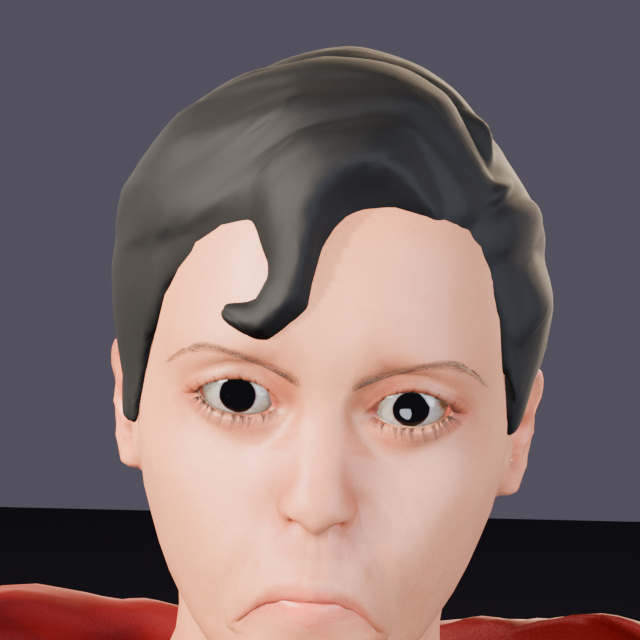
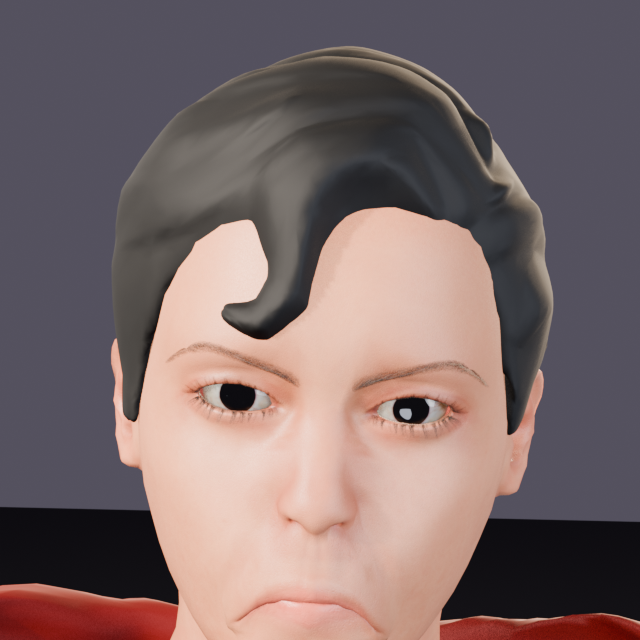
style_lab: Arian face iterations
Claude-Session: https://claude.ai/code/session_0195jcA68rZXhAyskUgtU8Q6

Changed region(s): [[0.3125, 0.5625, 0.4375, 0.6562], [0.5625, 0.5625, 0.6875, 0.7188]]

diff --git a/blender/style_lab/arian_board.py b/blender/style_lab/arian_board.py
@@ -29,6 +29,9 @@ sit = MC.load(os.path.join(HERE, "..", "mocap", "sitting_idle.fbx")) if PART == 
 
 # ------------------------------------------------------------------ the new Arian
 STYLE = dict(LK.STYLE)
+for k_ in list(STYLE):
+    if "eye-height" in k_:
+        STYLE.pop(k_)          # lids not pulled wide open: less "staring"
 STYLE.update({"l-eye-scale-incr": 1.0, "r-eye-scale-incr": 1.0, "head-scale-vert-incr": 0.2,
               "nose-scale-horiz-decr": 0.7, "mouth-scale-horiz-decr": 0.2})
 cast.STYLE = STYLE
@@ -91,6 +94,54 @@ for o in ar.parts.get("Eyes", []):
 for kb in ar.keys.values():
     kb.slider_max = 2.0
 
+
+def big_iris(m, k=1.45):
+    """Scale the eye texture around each iris centre (the texture holds two eyes) so the iris looks bigger."""
+    nt = m.node_tree
+    tex = next((n for n in nt.nodes if n.type == "TEX_IMAGE"), None)
+    if not tex or m.get("big_iris"):
+        return
+    m["big_iris"] = 1
+    uv = nt.nodes.new("ShaderNodeTexCoord")
+    sep = nt.nodes.new("ShaderNodeSeparateXYZ")
+    nt.links.new(uv.outputs["UV"], sep.inputs[0])
+    gt = nt.nodes.new("ShaderNodeMath")
+    gt.operation = "GREATER_THAN"
+    gt.inputs[1].default_value = 0.5
+    nt.links.new(sep.outputs[0], gt.inputs[0])
+    mixc = nt.nodes.new("ShaderNodeMix")
+    mixc.data_type = "VECTOR"
+    mixc.inputs["A"].default_value = (0.293, 0.297, 0)
+    mixc.inputs["B"].default_value = (0.703, 0.715, 0)
+    nt.links.new(gt.outputs[0], mixc.inputs["Factor"])
+    sub = nt.nodes.new("ShaderNodeVectorMath")
+    sub.operation = "SUBTRACT"
+    nt.links.new(uv.outputs["UV"], sub.inputs[0])
+    nt.links.new(mixc.outputs["Result"], sub.inputs[1])
+    sc_ = nt.nodes.new("ShaderNodeVectorMath")
+    sc_.operation = "SCALE"
+    sc_.inputs["Scale"].default_value = 1.0 / k
+    nt.links.new(sub.outputs[0], sc_.inputs[0])
+    add = nt.nodes.new("ShaderNodeVectorMath")
+    add.operation = "ADD"
+    nt.links.new(sc_.outputs[0], add.inputs[0])
+    nt.links.new(mixc.outputs["Result"], add.inputs[1])
+    nt.links.new(add.outputs[0], tex.inputs["Vector"])
+
+
+# warmer, slightly darker skin (the MakeHuman skin reads pale under the soft lights)
+for slot in ar.body.material_slots:
+    m = slot.material
+    b = next((n for n in m.node_tree.nodes if n.type == "BSDF_PRINCIPLED"), None)
+    s_ = b.inputs["Base Color"] if b else None
+    if s_ is not None and s_.is_linked:
+        mul = m.node_tree.nodes.new("ShaderNodeMix")
+        mul.data_type, mul.blend_type = "RGBA", "MULTIPLY"
+        mul.inputs["Factor"].default_value = 1.0
+        mul.inputs["B"].default_value = (0.92, 0.66, 0.5, 1)
+        m.node_tree.links.new(s_.links[0].from_socket, mul.inputs["A"])
+        m.node_tree.links.new(mul.outputs["Result"], s_)
+
 # ------------------------------------------------------------------ render setup
 sc.render.engine = "BLENDER_EEVEE"
 sc.eevee.taa_render_samples = 48
@@ -143,7 +194,7 @@ if PART == "char":
     hz = head.z
     cam_d.dof.use_dof = False
     # turnaround: the character turns, the camera stays
-    for i, ang in enumerate((0, 35, 90, 180)):
+    for i, ang in enumerate(() if "--faces" in argv else (0, 35, 90, 180)):
         ar.rig.rotation_euler.z = math.radians(ang)
         ar.rig.keyframe_insert("rotation_euler", index=2, frame=20)
         sc.frame_set(20)
